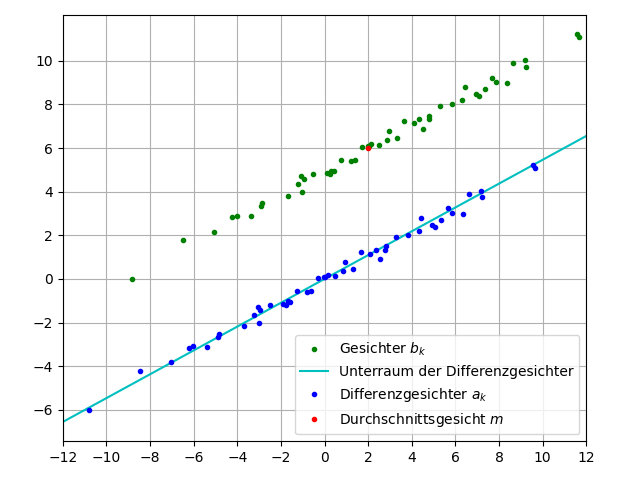
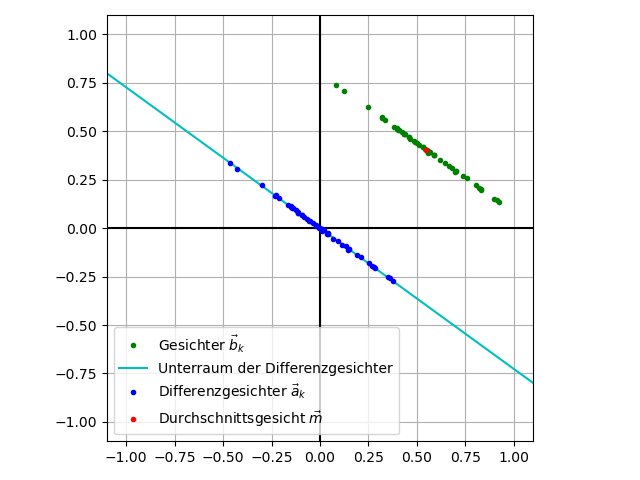
Plot with components in [0,1]

diff --git a/images/facespace/plots.py b/images/facespace/plots.py
@@ -1,46 +1,53 @@
 import numpy as np
 import matplotlib.pyplot as plt
 
-np.random.seed(0)
-
-m = np.array([2.0, 6.0])
+np.random.seed(1)
 
 phi = 0.0
 R = lambda phi: np.array([[np.cos(phi), -np.sin(phi)], [np.sin(phi), np.cos(phi)]])
-d = 5.0
+d = 10.0
 D = np.array([[d, 0.0], [0.0, 1.0 / d]])
 
-x = np.random.normal(0.0, 1.0, 50)
-y = np.random.normal(0.0, 1.0, 50)
+d_inv = 1.0 / d
+#x = np.random.uniform(d_inv, 1.0 - d_inv, 50)
+#y = np.random.uniform(d_inv, 1.0 - d_inv, 50)
+x = np.random.normal(0.55, 0.25 * d_inv, 50)
+y = np.random.normal(0.4, 0.25 * d_inv, 50)
+m = np.array([np.mean(x), np.mean(y)])
 
-angle = 0.5
+
+angle = -0.2 * np.pi
 A = R(angle) @ D @ R(-angle)
 
 Z = np.empty((2, len(x)))
-Z[0] = x
-Z[1] = y
+Z[0] = x - m[0]
+Z[1] = y - m[1]
 
 Z_tilde = A @ Z
 
-x_tilde = Z_tilde[0]
-y_tilde = Z_tilde[1]
+x_tilde = Z_tilde[0] + m[0]
+y_tilde = Z_tilde[1] + m[1]
+#m = np.array([np.mean(x_tilde), np.mean(y_tilde)])
 
 w = np.array([np.cos(angle), np.sin(angle)]) / np.cos(angle)
-l = np.linspace(-12, 13, 10)
+l = np.linspace(-1.2, 1.2, 10)
 v = np.empty((2, len(l)))
 v[0] = l * w[0]
 v[1] = l * w[1]
 
 plt.figure()
 #plt.plot(v[0] + m[0], v[1] + m[1], 'y-', label=r"Affiner Unterraum der Gesichter")
-plt.plot(x_tilde + m[0], y_tilde + m[1], 'g.', label=r"Gesichter $b_k$")
+plt.axhline(y=0, color='k')
+plt.axvline(x=0, color='k')
+plt.plot(x_tilde, y_tilde, 'g.', label=r"Gesichter $\vec{b}_k$")
 plt.plot(v[0], v[1], 'c-', label=r"Unterraum der Differenzgesichter")
-plt.plot(x_tilde, y_tilde, 'b.', label=r"Differenzgesichter $a_k$")
-plt.plot(m[0], m[1], 'r.', label=r"Durchschnittsgesicht $m$")
-plt.xlim(-12.0, 12.0)
-plt.xticks(range(-12, 13, 2))
-plt.yticks(range(-6, 12, 2))
-plt.legend(loc='lower right')
+plt.plot(x_tilde - m[0], y_tilde - m[1], 'b.', label=r"Differenzgesichter $\vec{a}_k$")
+plt.plot(m[0], m[1], 'r.', label=r"Durchschnittsgesicht $\vec{m}$")
+plt.xlim(-1.1, 1.1)
+plt.ylim(-1.1, 1.1)
+#plt.xticks(range(-12, 13, 2))
+#plt.yticks(range(-6, 12, 2))
+plt.legend(loc='lower left')
 plt.gca().set_aspect('equal', adjustable='box')
 plt.grid('True')
 plt.tight_layout()

diff --git a/chapters/facespace.tex b/chapters/facespace.tex
@@ -67,6 +67,6 @@ Dies ist in Abbildung~\ref{fig:meandiff} gezeigt.
 	Für $M=180$ und $N=144$ wären das Punkte im $\mathbb R^{25'920}$ und nicht im $\mathbb R^2$ wie in der Abbildung.
 	Der Unterraum der Differenzgesichter ist zudem dargestellt als Gerade durch Null, also als 1-dimensionaler Raum.
 	Wegen der Vielfalt menschlicher Gesichter wird die Dimension tatsächlich viel grösser sein.
-	Andererseits wird in der Abbildung korrekt gezeigt, dass das der Durchschnitt der Differenzgesichter der Nullvektor ist.
-	Die Differenzgesichter sind also \glqq{}um Null verteilt\grqq{}.
+	Andererseits wird in der Abbildung korrekt gezeigt, dass die Komponenten der Gesichts-Vektoren $\vec b_k$ nur Werte zwischen 0 und 1 annehmen.
+	Zudem sind die Differenzgesichter richtigerweise genau als Verschiebung der Gesichts-Vektoren um $-\vec m$ dargestellt.
 \end{losung*}
